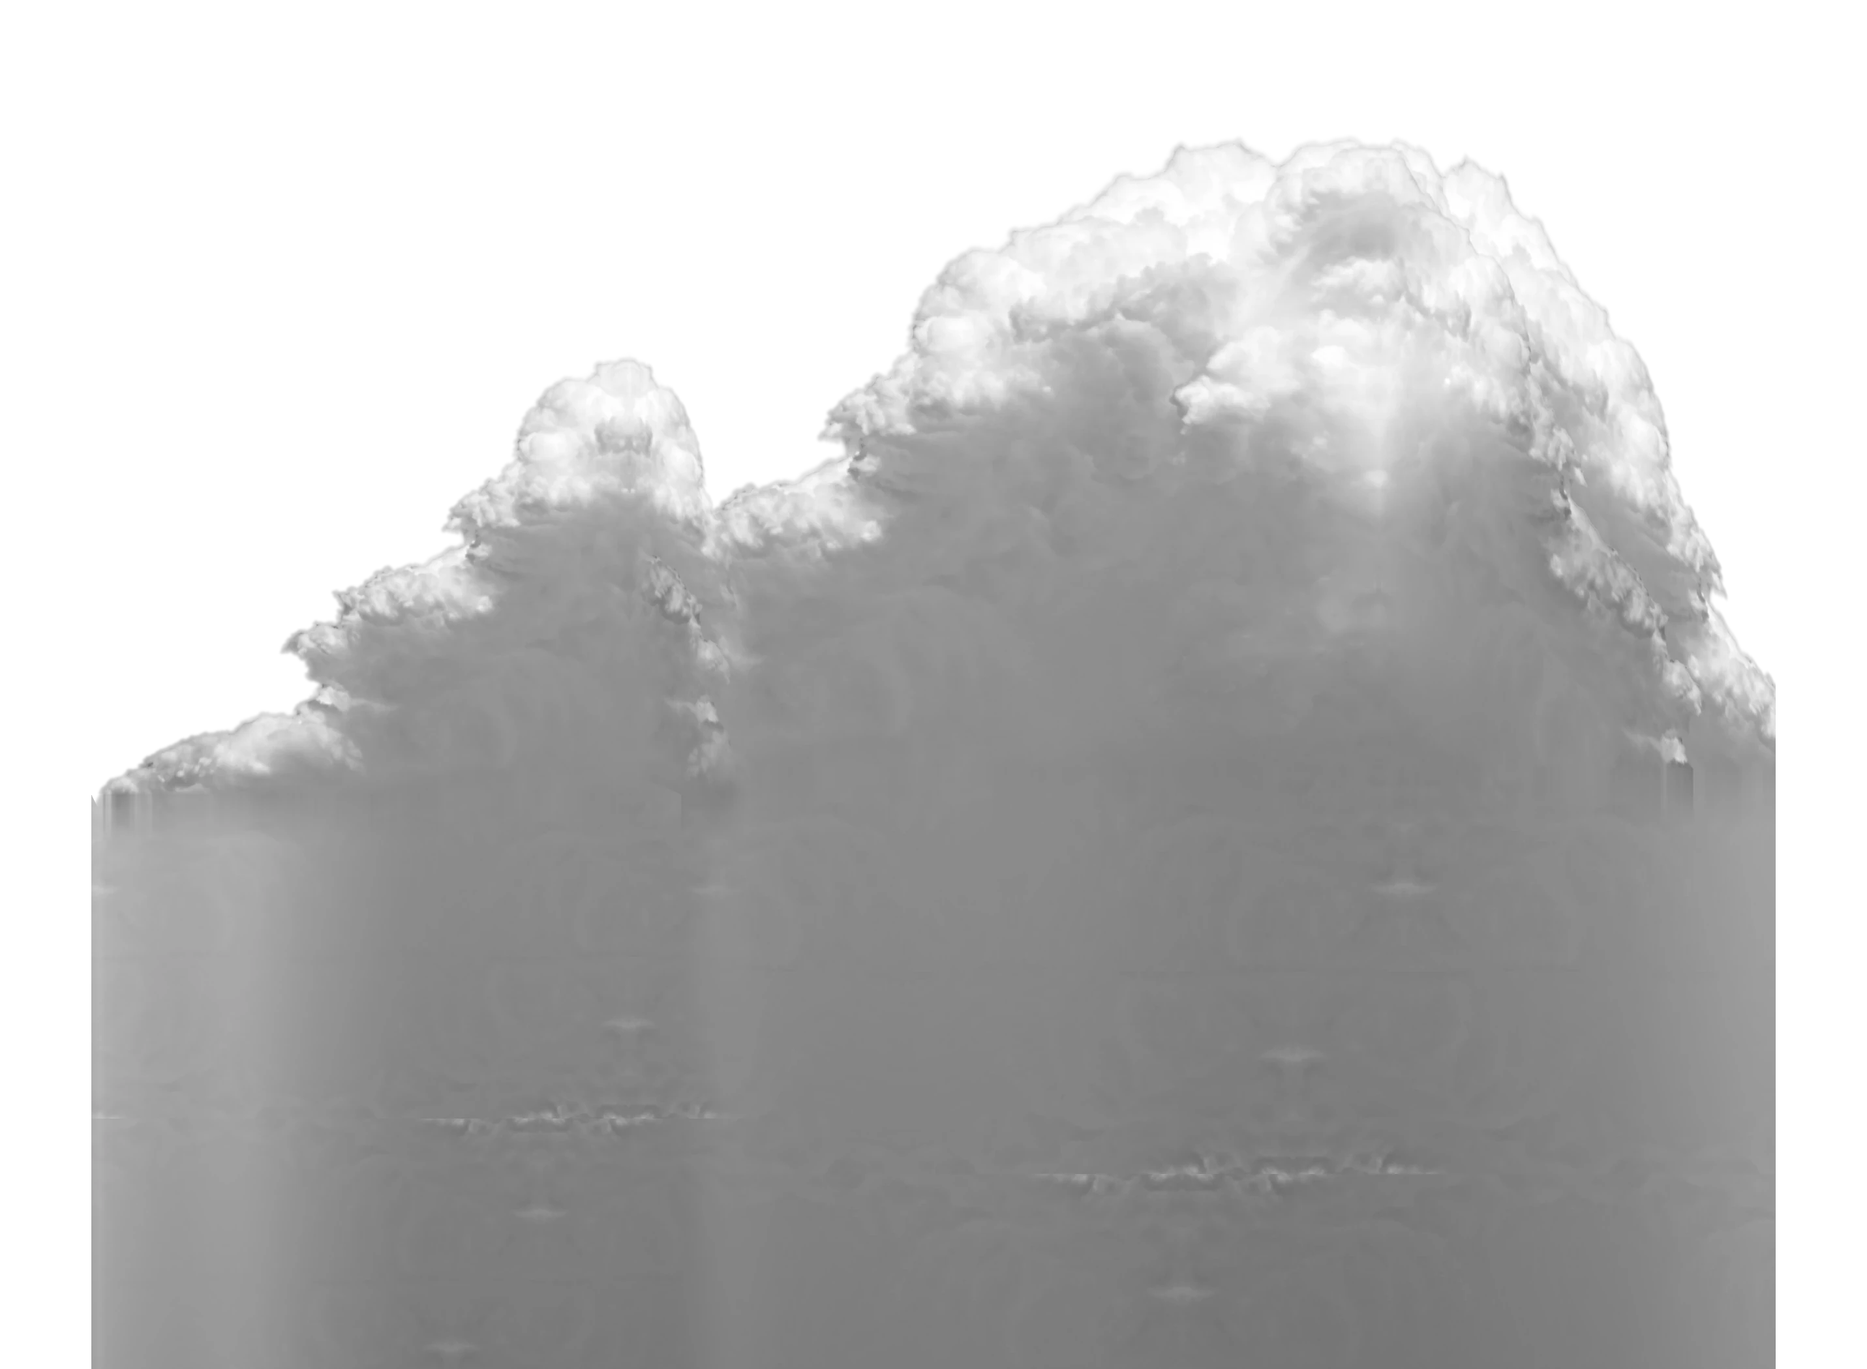
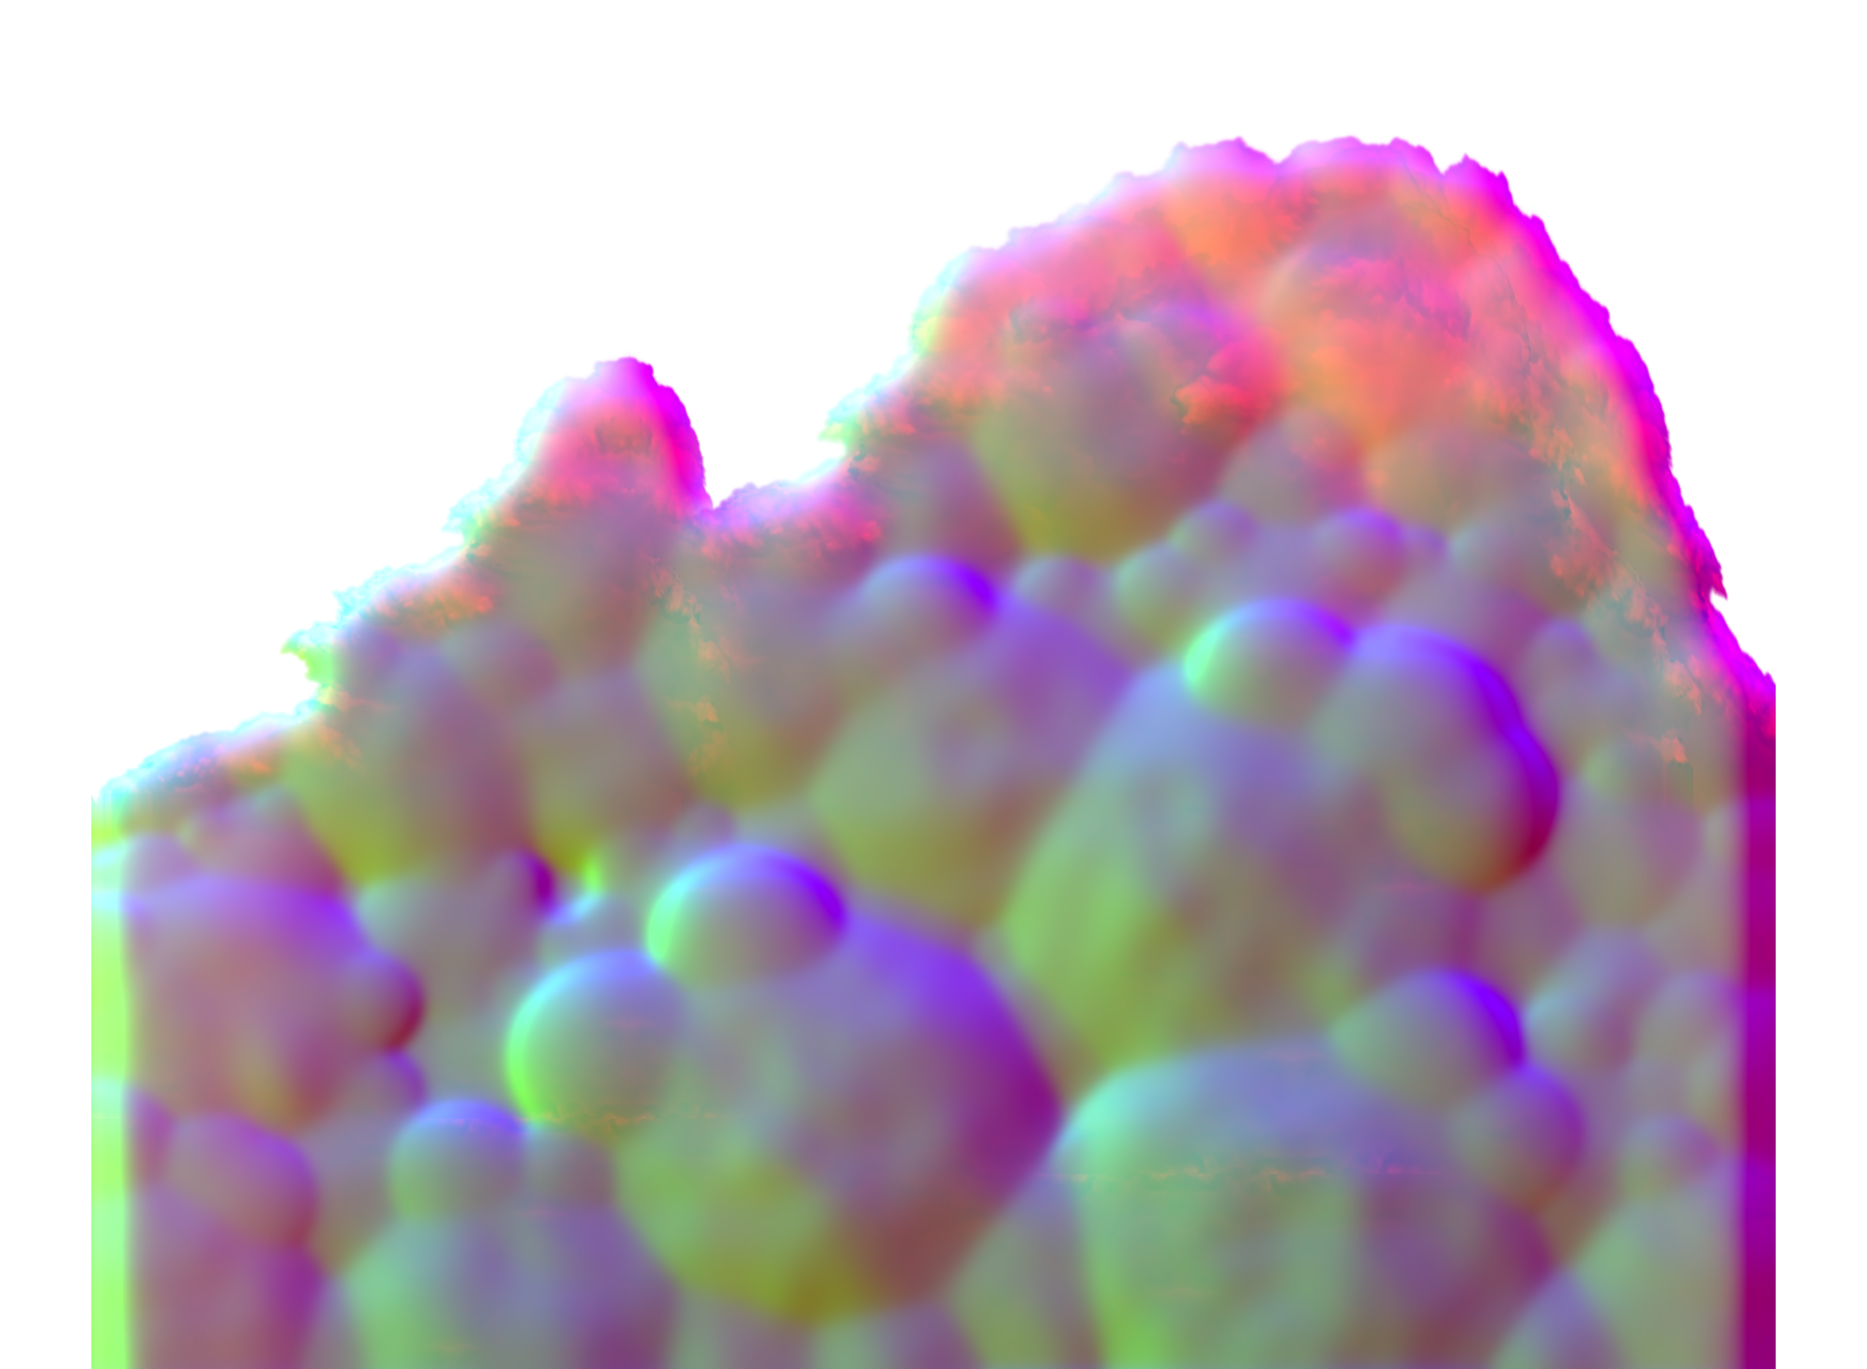
Lab: climb afternoon round 2
Claude-Session: https://claude.ai/code/session_01RqENhngNCzDFmJWDZueXGV

diff --git a/src/app/lab/afternoon/afternoonEngine.js b/src/app/lab/afternoon/afternoonEngine.js
@@ -73,7 +73,8 @@ const SKY_WARMC = [1.0, 0.92, 0.8];
 const SKY_WARM_AMT = 1.0;
 // The cumulus: a photographed plate (cloud.webp, from tools/depth/bakes/
 // afternoon/cumulus.py: R its own luminance, A its coverage, built as a main
-// tower and a smaller turret in front of its flank) laid behind the street so
+// tower and a smaller turret in front of its flank; relief.py: G and B the
+// slope of its lobes' relief, overlapping round masses) laid behind the street so
 // both rise from behind the right-hand roofs with their crowns whole in the
 // sky and blue between them. The main crown's top (CLOUD_FOOT, card px) lands
 // at CLOUD_AT (plate px), scaled by CLOUD_SCALE and turned CLOUD_ROT degrees
@@ -84,6 +85,8 @@ const CLOUD_FOOT = [2114, 214];
 const CLOUD_AT = [2000, 380];
 const CLOUD_SCALE = 0.71;
 const CLOUD_ROT = 22;
+// how steep the cloud's relief (cloud.webp G, B) is lit
+const CLOUD_RELIEF = 1.0;
 const S_PHOTO = (T0 - T_START) / T_SPAN;
 const S_OPEN = 0.86;
 
@@ -402,16 +405,19 @@ void main() {
   // The cumulus: a photographed plate, its own luminance and alpha, relit by
   // the sun here. Its drawing (the tone of every billow, lit from its upper
   // left in the photograph, as this sun stands) is kept; the sun model decides
-  // which faces take the sun. The lobes' relief comes from the plate's own
-  // coverage, blurred at two scales (its mips): a face turned toward the sun
-  // across the frame (and toward or away from us) is lit, and so is every
-  // billow the sun reaches through a few hundred pixels of the mass (a short
-  // march toward the sun through its coverage), about two fifths of it. The
-  // sunlit side is a warm white that rolls off on a shoulder short of paper
-  // white, never clipped; it warms to peach as the sun drops and its lit
-  // faces swing lower with it. The rest is the bright skylight blue of the
-  // dome that fills it, the plate's own billows held in it. A few percent of
-  // the sky's colour veils it all, so it stands in the same air.
+  // which faces take the sun. The relief is large-scale (relief.py): the
+  // body is a set of overlapping round masses, each with a rounded top and a
+  // shoulder toward the sun, the creases where one tucks under the next, all
+  // seen through heavy blurs so they light as soft volume; the plate's own
+  // mid-frequency tone breaks up the light within each. A face turned toward
+  // the sun across the frame (and toward or away from us) is lit, and so is
+  // every billow the sun reaches through a few hundred pixels of the mass (a
+  // short march toward the sun through its coverage). The sunlit side is a
+  // warm white that rolls off on a shoulder short of paper white, never
+  // clipped; it warms to peach as the sun drops and its lit faces swing lower
+  // with it. The rest is a soft grey-blue lit by the dome, stepping down from
+  // mass to mass into the creases. A few percent of the sky's colour veils it
+  // all, so it stands in the same air.
   float low = 1.0 - smoothstep(3.0, 40.0, uEl);
   // toward the sun on the plate
   vec2 sdir = normalize(proj(vd * 10.0 + uL) - proj(vd * 10.0) + 1e-5);
@@ -423,30 +429,32 @@ void main() {
   vec2 ey = vec2(0.0, 1.0);
   vec2 g5 = vec2(textureLod(uCloud, cuv + ex * 28.0 * ct, 4.5).a - textureLod(uCloud, cuv - ex * 28.0 * ct, 4.5).a,
                  textureLod(uCloud, cuv + ey * 28.0 * ct, 4.5).a - textureLod(uCloud, cuv - ey * 28.0 * ct, 4.5).a);
-  vec2 g3 = vec2(textureLod(uCloud, cuv + ex * 9.0 * ct, 3.0).a - textureLod(uCloud, cuv - ex * 9.0 * ct, 3.0).a,
-                 textureLod(uCloud, cuv + ey * 9.0 * ct, 3.0).a - textureLod(uCloud, cuv - ey * 9.0 * ct, 3.0).a);
-  // and inside the silhouette, the billows' own drawing: the plate's tone,
-  // blurred to the size of a lobe, read as relief (a lobe bulges toward us
-  // where it is brightest in the photograph)
-  vec2 gt = vec2(textureLod(uCloud, cuv + ex * 14.0 * ct, 3.5).r - textureLod(uCloud, cuv - ex * 14.0 * ct, 3.5).r,
-                 textureLod(uCloud, cuv + ey * 14.0 * ct, 3.5).r - textureLod(uCloud, cuv - ey * 14.0 * ct, 3.5).r);
-  vec2 gc = 0.6 * g5 + 0.8 * g3 + 1.6 * gt * cl.a;
+  // The lobes' relief (relief.py): a height over the card, the body filled
+  // with overlapping round masses and the crowns following the plate's own
+  // tone, seen only through two heavy blurs (about 48 and 16 plate px,
+  // weighted 70/30), stored as its slope. Large-scale, so the masses light as
+  // rounded volume and never as a bump map of the plate's grain.
+  vec2 gc = (textureLod(uCloud, cuv, 0.0).gb - 0.5) * 4.0;
+  // and where the masses meet: the relief's curvature (its slope's
+  // divergence) across a few tens of px, positive in the creases between
+  // overlapping masses, negative on their rounded fronts
+  float lap = (textureLod(uCloud, cuv + ex * 14.0 * ct, 0.0).g - textureLod(uCloud, cuv - ex * 14.0 * ct, 0.0).g
+             + textureLod(uCloud, cuv + ey * 14.0 * ct, 0.0).b - textureLod(uCloud, cuv - ey * 14.0 * ct, 0.0).b) * 4.0 / 28.0;
+  float cav = smoothstep(0.012, 0.045, lap) * cl.a;
+  float bulge = smoothstep(0.0, 0.012, -lap);
   // card to plate: the card's turn (the scale drops out of a direction)
   float rc = uCl1.x / length(uCl1.xy);
   float rs = uCl1.y / length(uCl1.xy);
   vec2 gp = vec2(gc.x * rc + gc.y * rs, -gc.x * rs + gc.y * rc);
-  // a lobe's face turns outward, against its coverage's rise
-  vec3 cn = normalize(vec3(-gp * 2.2, 1.0));
+  // a mass's face turns outward, down its relief's slope
+  vec3 cn = normalize(vec3(-gp * ${CLOUD_RELIEF.toFixed(2)}, 1.0));
   float vl = dot(vd, uL);
   vec3 cl3 = normalize(vec3(sdir * sqrt(max(1.0 - vl * vl, 0.0)), -vl));
   float dif = dot(cn, cl3);
   float tn = clamp((cl.r - 0.45) / 0.5, 0.0, 1.0);
-  // the cauliflower: the plate's fine tone against its lobe-sized blur, kept
-  // in both lights (stronger in the shade, where the sky alone models it);
-  // read a little above the plate's own grain so the lit edge does not crunch
-  float det = textureLod(uCloud, cuv, 1.2).r - textureLod(uCloud, cuv, 4.0).r;
-  // and the lobes themselves against the body (the shade holds them too)
-  float lobe = textureLod(uCloud, cuv, 3.5).r - textureLod(uCloud, cuv, 6.0).r;
+  // the plate's own mid-frequency tone (its billows against the body), which
+  // breaks each mass's light into the photograph's own drawing
+  float mid = textureLod(uCloud, cuv, 2.2).r - textureLod(uCloud, cuv, 5.0).r;
   // How deep in the cloud this point stands, seen from the sun: its coverage
   // summed along a short march toward the sun across the card, each step read
   // at a coarser mip (a wider cone). The billows facing the sun take it through
@@ -470,31 +478,38 @@ void main() {
   // toward the street) see neither the sun nor the open dome
   float deep = smoothstep(1.2, 5.0, tup);
   float down = clamp(cn.y * 2.2, 0.0, 1.0);
-  float sunK = smoothstep(0.08, 0.75, reach + 0.85 * dif + 0.6 * (tn - 0.45) + 0.5 * lobe - 0.18 * deep - 0.2 * down);
+  // Each mass takes the sun on the shoulder turned toward it; its far side
+  // and the creases where it tucks under the next stay in the shade. The
+  // reach through the mass decides how much of the body sees the sun at all;
+  // the plate's own tone breaks it up within each mass.
+  // A mass's rounded top, turned up to the sun and the dome, catches the
+  // light; the underside it shows above the next mass, turned down, does not,
+  // so each mass reads by its top and not by its bottom edge.
+  float up = clamp(-cn.y * 1.6, 0.0, 1.0);
+  float sunK = smoothstep(0.0, 0.62, 0.45 * reach + 1.05 * dif + 2.4 * mid + 0.25 * (tn - 0.45) + 0.12 * bulge
+                          + 0.3 * up - 0.12 * deep - 0.4 * down - 0.45 * cav);
   // The sunlit side: a warm white (a pale peach once low) that rolls off on a
-  // shoulder and is never clipped, the plate's billows held in it and each
-  // lobe rounding off as the light goes deeper into it. Set above paper white
-  // in print: the film's vignette and diffusion take back about a sixth.
-  float litF = (1.02 + 0.1 * tn + 0.18 * dif) * (0.88 + 0.16 * reach) * (1.0 + 0.6 * det + 1.2 * lobe) * (1.0 - 0.12 * deep);
-  // the folds between the sunlit billows are filled by the sky, not greyed
-  vec3 fold = mix(vec3(0.8, 0.9, 1.02), vec3(1.0), smoothstep(0.72, 1.04, litF));
-  vec3 litC = mix(vec3(1.0, 0.97, 0.9), vec3(1.0, 0.86, 0.72), pow(low, 1.3)) * litF * fold;
+  // shoulder and is never clipped, each mass rounding off as its face turns
+  // from the sun. Set above paper white in print: the film's vignette and
+  // diffusion take back about a sixth.
+  float litF = (1.08 + 0.06 * tn + 0.12 * dif) * (0.93 + 0.1 * reach) * (1.0 + 1.0 * mid) * (1.0 - 0.1 * deep) * (1.0 - 0.12 * cav);
+  vec3 litC = mix(vec3(1.0, 0.98, 0.94), vec3(1.0, 0.86, 0.72), pow(low, 1.3)) * litF;
   vec3 over = max(litC - 0.95, 0.0);
   litC = min(litC, 0.95) + 0.2 * (1.0 - exp(-over / 0.2));
-  // The shade: lit by the open dome, a clear sky blue, never grey. The faces
-  // turned up to the dome and the lobes that bulge out of the shade stand in
-  // its pale blue; the undersides and the body low down, deeper in the mass,
-  // drop to a fuller sky blue. The plate's own billows model it.
-  float mid = textureLod(uCloud, cuv, 2.2).r - textureLod(uCloud, cuv, 5.0).r;
-  float skyK = clamp(0.55 + 1.2 * (tn - 0.45) + 5.0 * lobe + 6.0 * mid - 1.1 * cn.y - 0.45 * deep - 0.3 * down, 0.0, 1.0);
-  vec3 shadeHi = mix(vec3(0.88, 0.95, 1.02), vec3(0.9, 0.93, 1.0), low);
-  vec3 shadeLo = mix(vec3(0.68, 0.83, 0.97), vec3(0.7, 0.8, 0.95), low);
-  vec3 shadeC = mix(shadeLo, shadeHi, skyK) * clamp(1.0 + 2.4 * det + 1.2 * mid, 0.76, 1.14);
+  // The shade: lit by the open dome, a soft grey-blue, in value steps from
+  // mass to mass. The faces turned up to the dome and the masses' rounded
+  // fronts stand pale; the undersides, the body low down and above all the
+  // creases where one mass tucks under the next drop to a deeper grey-blue.
+  float skyK = clamp(0.5 - 0.9 * cn.y + 0.35 * bulge + 3.0 * mid + 0.5 * (tn - 0.45) - 0.35 * deep - 0.25 * down - 0.6 * cav, 0.0, 1.0);
+  vec3 shadeHi = mix(vec3(0.84, 0.9, 0.99), vec3(0.86, 0.88, 0.97), low);
+  vec3 shadeLo = mix(vec3(0.61, 0.71, 0.88), vec3(0.62, 0.68, 0.83), low);
+  vec3 shadeC = mix(shadeLo, shadeHi, skyK);
   vec3 cloud = min(mix(shadeC, litC, sunK), vec3(1.07));
   // A thin bright rim just inside the silhouette, where the cloud thins to
   // its edge and the light comes through it: warm on the side toward the
   // sun, the dome's pale blue-white on the far side.
-  float edgeSun = smoothstep(-0.1, 0.7, dot(normalize(-gp + 1e-6), sdir));
+  vec2 ge = vec2(g5.x * rc + g5.y * rs, -g5.x * rs + g5.y * rc);
+  float edgeSun = smoothstep(-0.1, 0.7, dot(normalize(-ge + 1e-6), sdir));
   float thin = clamp((1.0 - textureLod(uCloud, cuv, 2.2).a) * 3.2, 0.0, 1.0) * smoothstep(0.25, 0.9, cl.a);
   vec3 rimC = mix(vec3(0.9, 0.95, 1.0), litC * vec3(1.02, 1.0, 0.97), edgeSun);
   cloud = mix(cloud, max(cloud, rimC), thin * (0.55 + 0.4 * edgeSun));

diff --git a/tools/depth/bakes/afternoon/relief.py b/tools/depth/bakes/afternoon/relief.py
@@ -1,0 +1,135 @@
+"""Afternoon: the cumulus's relief.
+
+    python3 -I tools/depth/bakes/afternoon/relief.py [public/lab/afternoon] [W]
+
+Run after cumulus.py. Reads cloud.webp's R (the photographed luminance) and A
+(coverage), and writes the relief the engine lights into its G and B, so the
+lobes light as rounded volume rather than as a bump map of the plate's grain.
+
+The plate's lower body is a flat sheet (the continuation below the plate's
+cut holds only fine woven relief), and its photographed tone is the
+photograph's own light, not a shape. So the relief is a height over the card:
+  masses   the body filled with overlapping round domes (a union of spheres):
+           big masses, larger the deeper below the silhouette's top; the lower
+           ones nearer, so each hides the underside of the one above it; two to
+           four smaller lobes on the upper rim of each.
+  crowns   where the plate has its own drawing (read from the local spread of
+           its tone), the masses give way to its tone blurred to a lobe (a
+           billow bulges toward us where it is brightest in the photograph).
+  edge     the whole rolls off to the silhouette with the blurred coverage.
+It is seen only through two heavy blurs, weighted 70/30 toward the big one
+(about 48 and 16 plate px across), and stored as its slope:
+G across the card, B down it, 0.5 flat, +-SLOPE/2 card px per px. Written
+lossless: the lossy codec's chroma subsampling would bleed the slope into R.
+"""
+import os
+import sys
+
+import cv2
+import numpy as np
+from PIL import Image
+
+OUT = sys.argv[1] if len(sys.argv) > 1 else "public/lab/afternoon"
+W = sys.argv[2] if len(sys.argv) > 2 else None
+# the body's masses (billows()): radius (card px) against depth below the
+# silhouette's top, how far apart they stand (of their summed radii), and how
+# much nearer each row stands than the one above it (card px per px)
+MASS_R = ([0, 400, 1400], [110, 220, 330])
+MASS_GAP = 0.58
+MASS_TILT = 0.15
+MASS_SOFT = 24  # card px over which two masses' surfaces are blended where they meet
+MASS_SQUASH = 1.25  # masses a little wider than tall
+MASS_ROUGH = 0.05  # the noise on each dome's height, of its radius
+BLUR_BIG, BLUR_SMALL = 34, 11  # card px: about 48 and 16 plate px across
+SLOPE = 4.0  # the slope channels span -SLOPE/2..SLOPE/2
+
+src = np.asarray(Image.open(os.path.join(OUT, "cloud.webp")).convert("RGBA"))
+T = src[..., 0].astype(np.float32) / 255
+A = src[..., 3].astype(np.float32) / 255
+H, Wd = A.shape
+
+
+def billows(seed=7):
+    """The body's masses: overlapping round domes (a union of spheres, as a
+    height in card px). Big masses fill the body, larger the deeper below the
+    silhouette's top; the lower ones stand in front, so each hides the
+    underside of the one above it; and two to four smaller lobes sit on the
+    upper rim of each. Each dome is roughened by a soft noise (so no mass is
+    a clean sphere and no two outlines repeat) and joined to the rest with a
+    smooth maximum (so the creases between masses are folds, not cuts).
+    Built at quarter resolution."""
+    rng = np.random.default_rng(seed)
+    f = 4
+    a = cv2.resize(A, (Wd // f, H // f), interpolation=cv2.INTER_AREA)
+    h, w = a.shape
+    solid = a > 0.5
+    ys, xs = np.nonzero(solid)
+    top = np.where(solid.any(0), solid.argmax(0), h)
+    yy, xx = np.mgrid[0:h, 0:w].astype(np.float32)
+    hs = np.zeros((h, w), np.float32)
+    noise = sum(cv2.GaussianBlur(rng.standard_normal((h, w)).astype(np.float32), (0, 0), sg) * sg for sg in (16, 8))
+    noise /= noise.std()
+    k = MASS_SOFT / f
+
+    def dome(cx, cy, cr, z):
+        x0, x1 = int(max(cx - cr - 1, 0)), int(min(cx + cr + 2, w))
+        y0, y1 = int(max(cy - cr - 1, 0)), int(min(cy + cr + 2, h))
+        sl = (slice(y0, y1), slice(x0, x1))
+        d2 = (xx[sl] - cx) ** 2 + (yy[sl] - cy) ** 2 * MASS_SQUASH
+        inside = d2 < cr * cr
+        hh = z + np.sqrt(np.maximum(cr * cr - d2, 0)) * (1 + MASS_ROUGH * noise[sl])
+        old = hs[sl]
+        m = np.maximum(k - np.abs(hh - old), 0) / k
+        hs[sl] = np.where(inside, np.maximum(hh, old) + m * m * k * 0.25, old)
+
+    big = []
+    for i in rng.permutation(len(xs))[:40000]:
+        x, y = xs[i], ys[i]
+        r = np.interp((y - top[x]) * f, *MASS_R) * rng.uniform(0.55, 1.45) / f
+        if all((cx - x) ** 2 + (cy - y) ** 2 > (MASS_GAP * (cr + r)) ** 2 for cx, cy, cr in big):
+            big.append((x, y, r))
+    for cx, cy, cr in big:
+        dome(cx, cy, cr, MASS_TILT * cy)
+    for cx, cy, cr in big:
+        for _ in range(int(rng.integers(2, 5))):
+            th = rng.uniform(-np.pi * 0.95, -np.pi * 0.05)
+            rr = cr * rng.uniform(0.28, 0.45)
+            px, py = cx + np.cos(th) * cr * 0.78, cy + np.sin(th) * cr * 0.78
+            if 0 <= int(py) < h and 0 <= int(px) < w and a[int(py), int(px)] > 0.5:
+                dome(px, py, rr, MASS_TILT * cy + 0.56 * cr - 0.35 * rr)
+    # where no mass reaches, a shallow fold rather than a hole to the floor
+    hs = np.maximum(hs, 0.8 * cv2.GaussianBlur(hs, (0, 0), 12))
+    print("billows:", len(big), "masses")
+    return cv2.resize(hs * f, (Wd, H), interpolation=cv2.INTER_CUBIC)
+
+
+def wblur(x, w, s):
+    return cv2.GaussianBlur(x * w, (0, 0), s) / np.maximum(cv2.GaussianBlur(w, (0, 0), s), 1e-3)
+
+
+cov = cv2.GaussianBlur(A, (0, 0), 24)
+spread = np.sqrt(np.maximum(wblur((T - wblur(T, A, 30)) ** 2, A, 40), 0))
+own = np.clip((spread - 0.02) / 0.04, 0, 1)
+# the photograph's darker billows are its shaded faces, not hollows: only
+# the bright ones rise
+tone = np.maximum(wblur(T, A, 14) - 0.6, 0)
+# in the crowns the masses flatten out (to their own broad level, so no step
+# where they give way) and the plate's tone takes over
+mass = billows()
+mass = mass + 0.8 * own * (cv2.GaussianBlur(mass, (0, 0), 60) - mass)
+hgt = (mass + 200 * tone * own) * np.clip(cov * 1.4, 0, 1) + 140 * cov
+hgt = 0.7 * cv2.GaussianBlur(hgt, (0, 0), BLUR_BIG) + 0.3 * cv2.GaussianBlur(hgt, (0, 0), BLUR_SMALL)
+gy, gx = np.gradient(hgt)
+gx = np.clip(0.5 + gx / SLOPE, 0, 1)
+gy = np.clip(0.5 + gy / SLOPE, 0, 1)
+
+q = np.dstack([src[..., 0], np.round(gx * 255), np.round(gy * 255), src[..., 3]]).astype(np.uint8)
+Image.fromarray(q, "RGBA").save(os.path.join(OUT, "cloud.webp"), lossless=True, quality=100, method=6, exact=True)
+print("wrote the relief into cloud.webp", Wd, "x", H)
+if W:
+    os.makedirs(W, exist_ok=True)
+    bg = np.array([0.17, 0.36, 0.67], np.float32)
+    sx, sy = (gx - 0.5) * SLOPE, (gy - 0.5) * SLOPE
+    lam = np.clip((0.55 * sx + 0.65 * sy + 0.5) / np.sqrt(1 + sx**2 + sy**2), 0, 1)
+    pv = lam[..., None] * A[..., None] + bg * (1 - A[..., None])
+    Image.fromarray((np.clip(pv, 0, 1) * 255).astype(np.uint8)).resize((Wd // 2, H // 2)).save(os.path.join(W, "relief-prev.jpg"))

diff --git a/tools/depth/bakes/afternoon/cumulus.py b/tools/depth/bakes/afternoon/cumulus.py
@@ -46,7 +46,8 @@ between them:
            ring, the lobes' relief) never meets the card edge.
 
 Writes cloud.webp: RGB the photographed luminance (grey, sRGB), A coverage.
-The engine reads only R and A, and lights it live (afternoonEngine.js
+Run relief.py after it: it writes the lobes' relief into G and B. The engine
+reads R, the relief and A, and lights it live (afternoonEngine.js
 CLOUD_*). Prints the card's size and where the main crown's top lands on it,
 for CLOUD_FOOT.
 """
